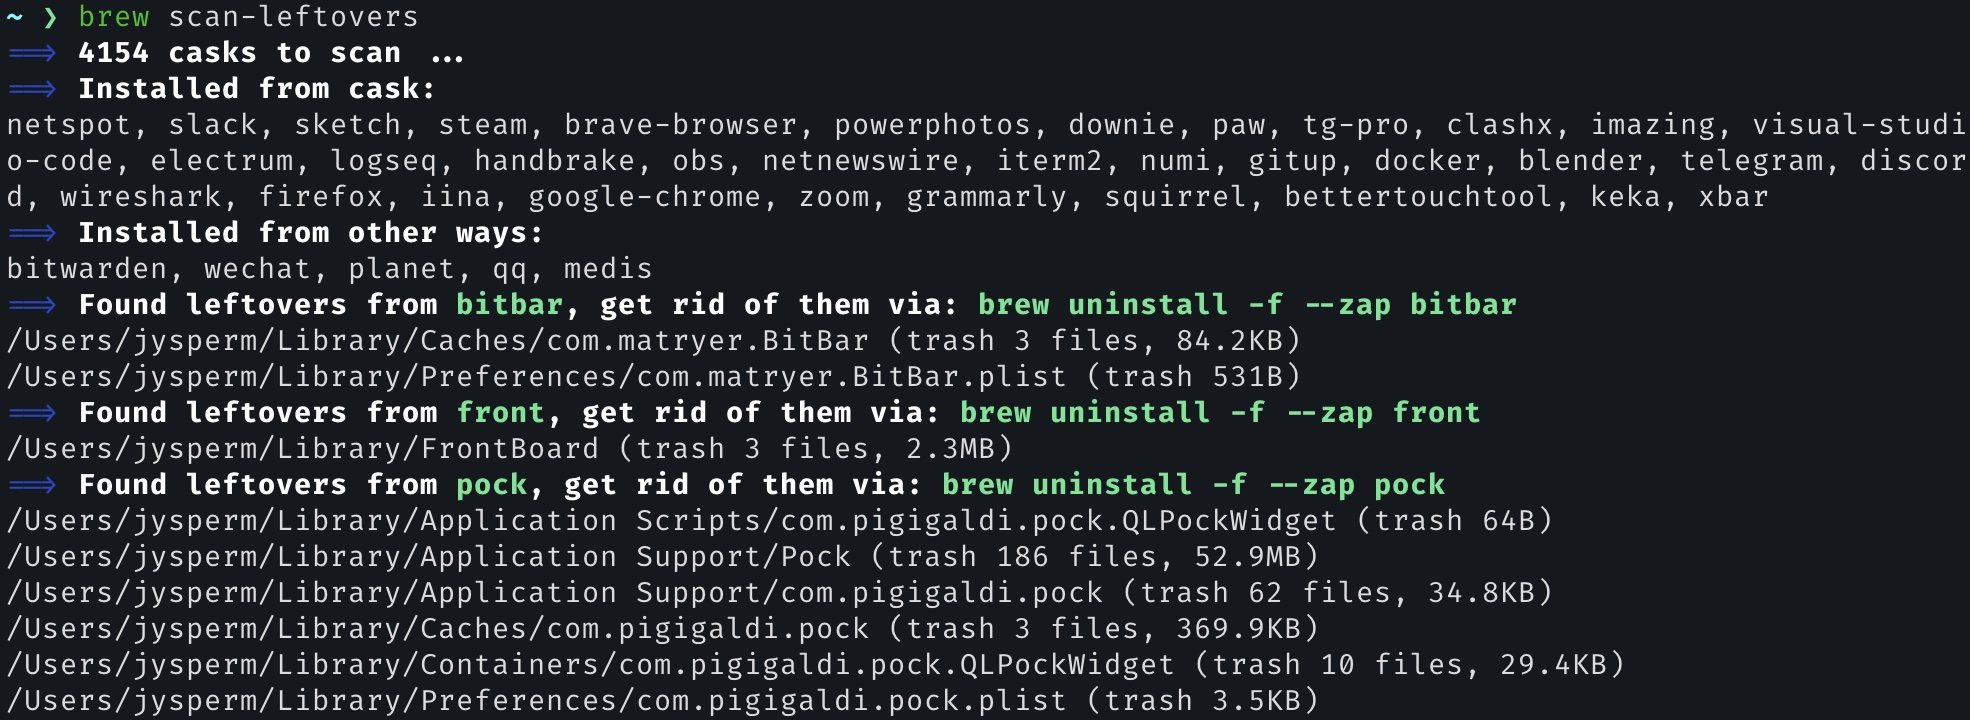
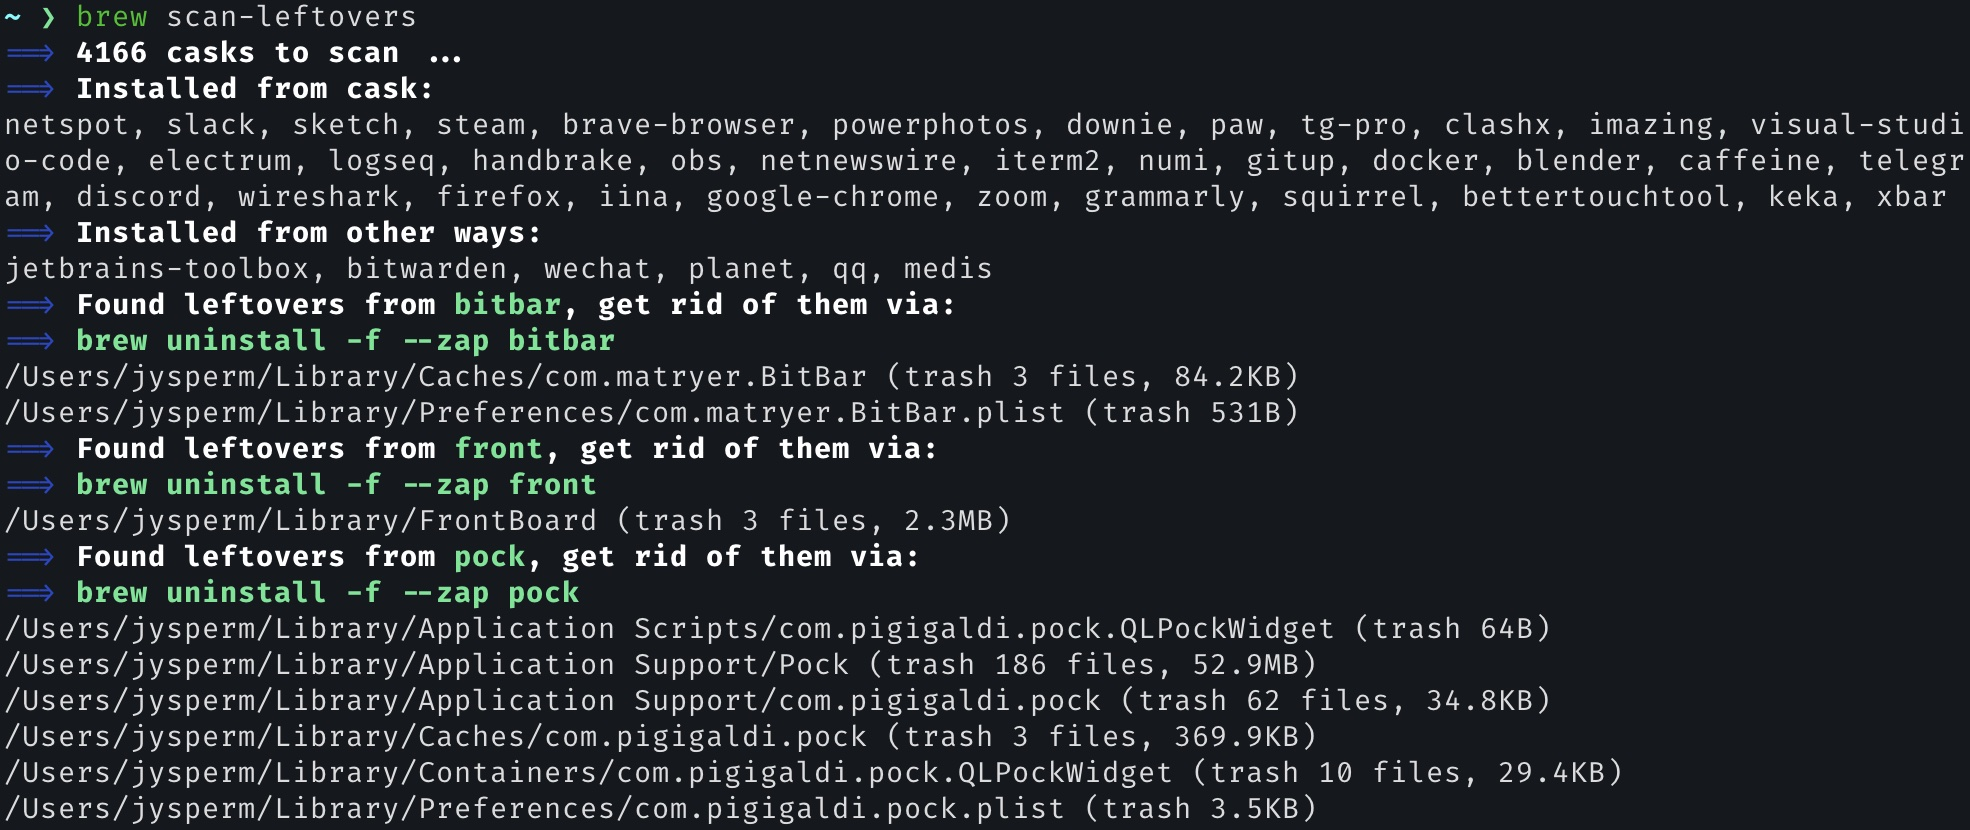
:memo: Update screenshot

Changed region(s): [[0.0, 0.0, 1.0, 1.0], [0.6812, 0.3972, 0.7741, 0.4583]]

diff --git a/README.md b/README.md
@@ -37,12 +37,15 @@ $ brew scan-leftovers
 netspot, slack, sketch, steam, brave-browser, powerphotos, downie, paw, tg-pro, clashx, imazing, visual-studio-code, electrum, logseq, handbrake, obs, netnewswire, iterm2, numi, gitup, docker, blender, telegram, discord, wireshark, firefox, iina, google-chrome, zoom, grammarly, squirrel, bettertouchtool, keka, xbar
 ==> Installed from other ways:
 bitwarden, wechat, planet, qq, medis
-==> Found leftovers from bitbar, get rid of them via: brew uninstall -f --zap bitbar
+==> Found leftovers from bitbar, get rid of them via:
+==> brew uninstall -f --zap bitbar
 /Users/jysperm/Library/Caches/com.matryer.BitBar (trash 3 files, 84.2KB)
 /Users/jysperm/Library/Preferences/com.matryer.BitBar.plist (trash 531B)
-==> Found leftovers from epic-games, get rid of them via: brew uninstall -f --zap epic-games
+==> Found leftovers from epic-games, get rid of them via:
+==> brew uninstall -f --zap epic-games
 /Users/jysperm/Library/Application Support/Epic (trash 264B)
-==> Found leftovers from setapp, get rid of them via: brew uninstall -f --zap setapp
+==> Found leftovers from setapp, get rid of them via:
+==> brew uninstall -f --zap setapp
 /Users/jysperm/Library/Application Scripts/com.setapp.DesktopClient.SetappAgent.FinderSyncExt (trash 64B)
 /Users/jysperm/Library/Caches/com.setapp.DesktopClient (trash 3 files, 84.2KB)
 /Users/jysperm/Library/Caches/com.setapp.DesktopClient.SetappAgent (trash 4 files, 6.1MB)
